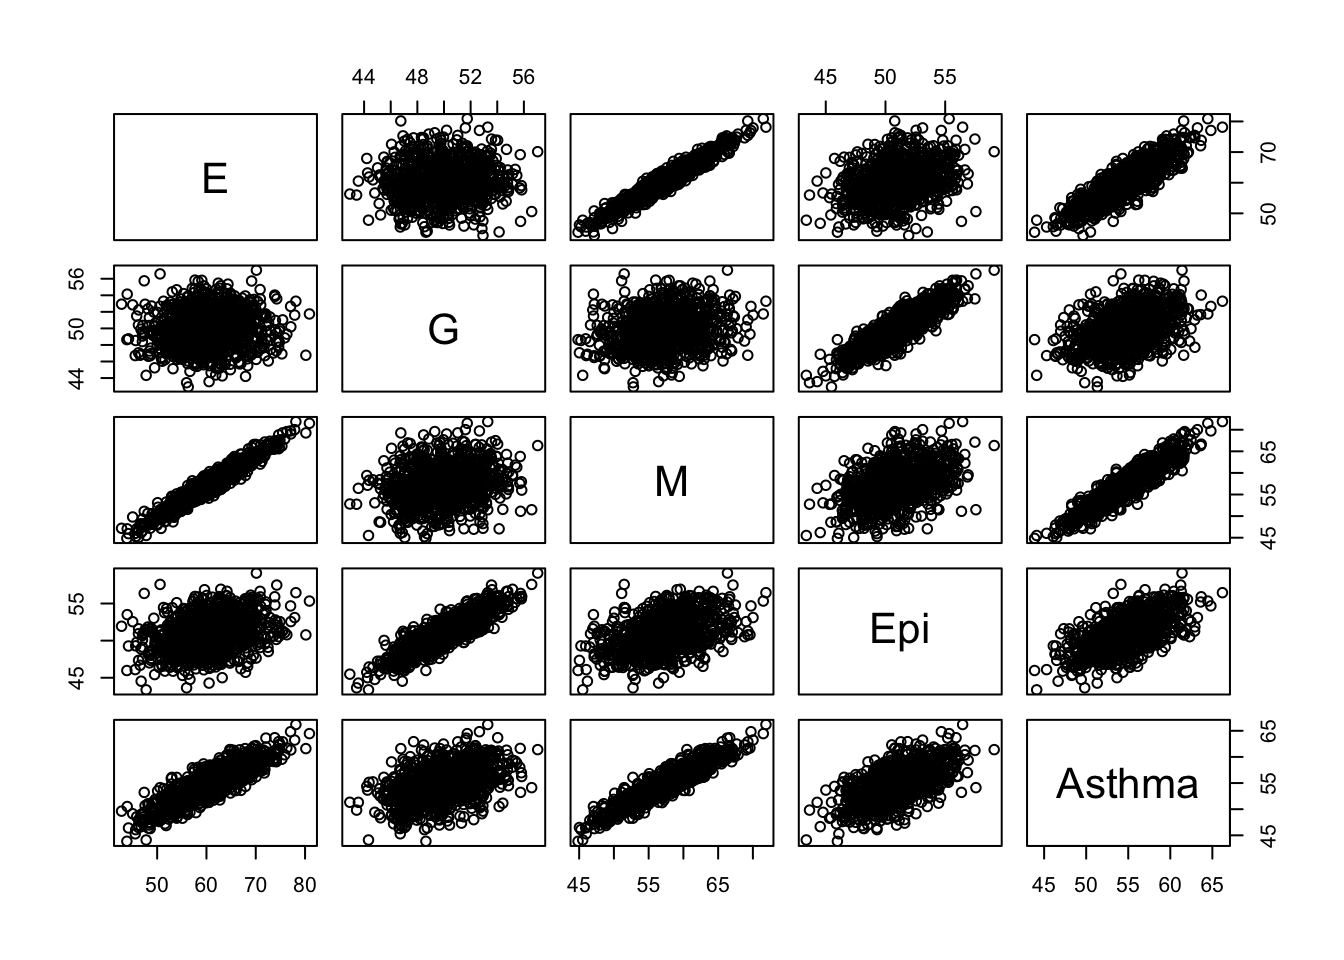
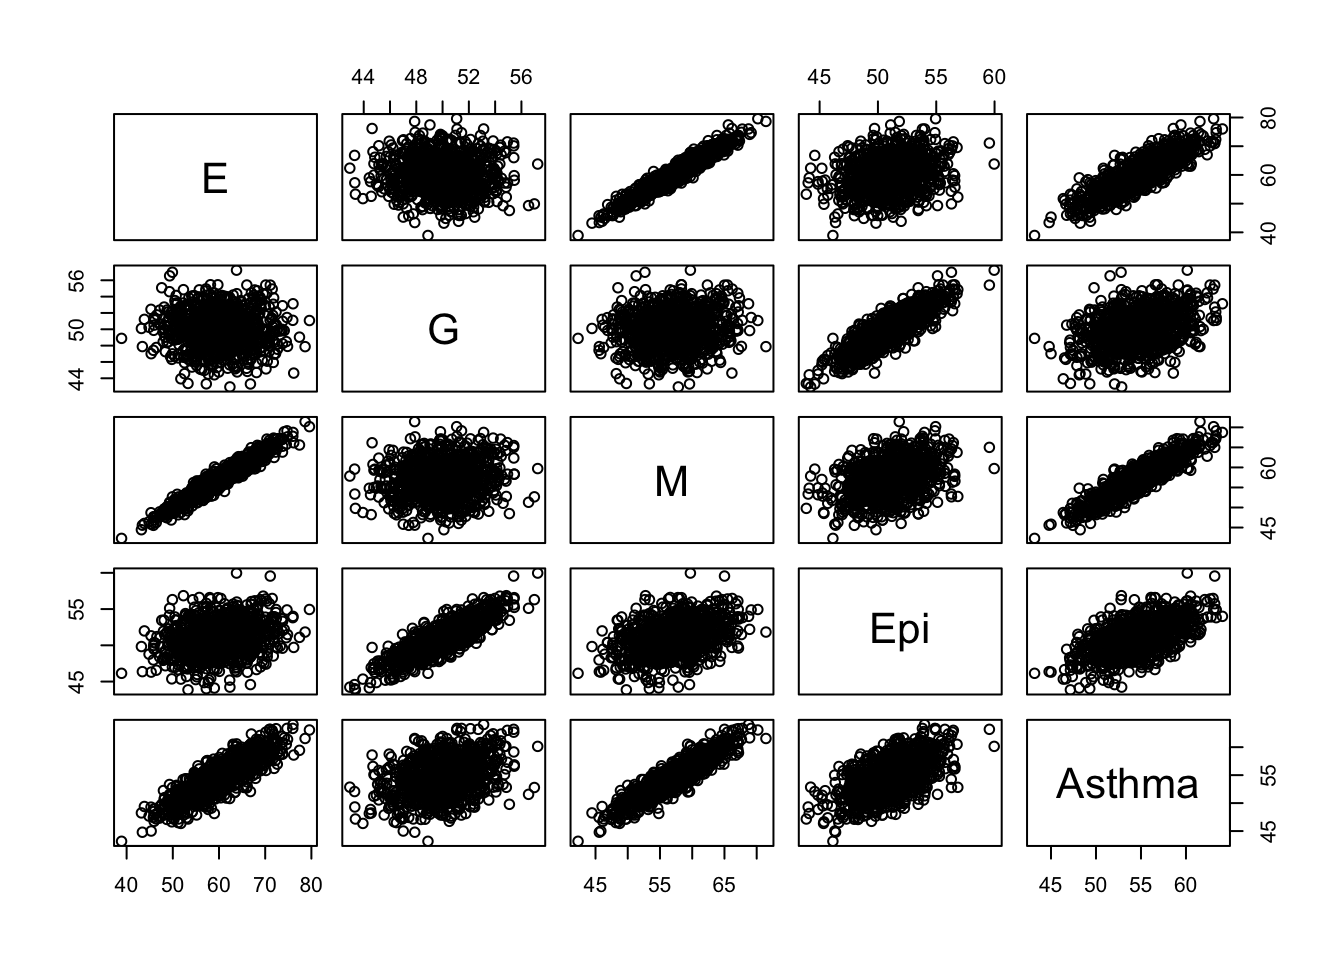
update for vercel

diff --git a/content/cn/2021-03-15-pc-algorithm/index.html b/content/cn/2021-03-15-pc-algorithm/index.html
@@ -25,12 +25,12 @@ Epi &lt;- E*0.1+G*0.9+rnorm(1000)
 Asthma &lt;- 0.6*M+0.4*Epi+rnorm(1000)
 data &lt;- cbind.data.frame(E,G,M,Epi,Asthma)
 cor(data)</code></pre>
-<pre><code>##             E      G      M    Epi Asthma
-## E      1.0000 0.0644 0.9638 0.3109 0.8584
-## G      0.0644 1.0000 0.2136 0.8788 0.4186
-## M      0.9638 0.2136 1.0000 0.4292 0.9196
-## Epi    0.3109 0.8788 0.4292 1.0000 0.6229
-## Asthma 0.8584 0.4186 0.9196 0.6229 1.0000</code></pre>
+<pre><code>##               E        G      M    Epi Asthma
+## E       1.00000 -0.02042 0.9647 0.2565 0.8551
+## G      -0.02042  1.00000 0.1314 0.8550 0.3549
+## M       0.96474  0.13144 1.0000 0.3733 0.9159
+## Epi     0.25647  0.85500 0.3733 1.0000 0.5888
+## Asthma  0.85509  0.35488 0.9159 0.5888 1.0000</code></pre>
 <pre class="r"><code>pairs(data)</code></pre>
 <p><img src="{{< blogdown/postref >}}index_files/figure-html/unnamed-chunk-1-1.png" width="672" /></p>
 <pre class="r"><code>cor.test(Asthma,E)</code></pre>
@@ -38,130 +38,130 @@ cor(data)</code></pre>
 ##  Pearson&#39;s product-moment correlation
 ## 
 ## data:  Asthma and E
-## t = 53, df = 998, p-value &lt;2e-16
+## t = 52, df = 998, p-value &lt;2e-16
 ## alternative hypothesis: true correlation is not equal to 0
 ## 95 percent confidence interval:
-##  0.8411 0.8739
+##  0.8375 0.8709
 ## sample estimates:
 ##    cor 
-## 0.8584</code></pre>
+## 0.8551</code></pre>
 <pre class="r"><code>cor.test(Asthma,G)</code></pre>
 <pre><code>## 
 ##  Pearson&#39;s product-moment correlation
 ## 
 ## data:  Asthma and G
-## t = 15, df = 998, p-value &lt;2e-16
+## t = 12, df = 998, p-value &lt;2e-16
 ## alternative hypothesis: true correlation is not equal to 0
 ## 95 percent confidence interval:
-##  0.3661 0.4684
+##  0.2995 0.4079
 ## sample estimates:
 ##    cor 
-## 0.4186</code></pre>
-<p>这里E代表暴露组、G代表基因组、M代表代谢组、Epi代表表观组、Asthma代表疾病，仿真中设定疾病六成可以被代谢组解释而四成可以用表观组解释，然而代谢组里七成是环境影响而三成是基因影响，表观组则是一成环境影响而九成基因影响。这里我们可以看到如果进行简单回归，基本就是一团乱码，</p>
+## 0.3549</code></pre>
+<p>这里E代表暴露组、G代表基因组、M代表代谢组、Epi代表表观组、Asthma代表疾病，仿真中设定疾病六成可以被代谢组解释而四成可以用表观组解释，然而代谢组里七成是环境影响而三成是基因影响，表观组则是一成环境影响而九成基因影响。这里我们可以看到如果进行简单回归，基本就是一团乱码。</p>
 <p>下面我们用PC算法拟合一下试试：</p>
 <pre class="r"><code>library(pcalg)
 suffStat &lt;- list(C=cor(data), n = nrow(data))
 pc.fit &lt;- pc(suffStat, gaussCItest, p = ncol(data), alpha = 0.01, verbose = TRUE)</code></pre>
 <pre><code>## Order=0; remaining edges:20
-## x= 1  y= 2  S=  : pval = 0.04174 
+## x= 1  y= 2  S=  : pval = 0.519 
 ## x= 1  y= 3  S=  : pval = 0 
-## x= 1  y= 4  S=  : pval = 3.213e-24 
+## x= 1  y= 4  S=  : pval = 1.2e-16 
 ## x= 1  y= 5  S=  : pval = 0 
-## x= 2  y= 3  S=  : pval = 7.352e-12 
+## x= 2  y= 3  S=  : pval = 2.987e-05 
 ## x= 2  y= 4  S=  : pval = 0 
-## x= 2  y= 5  S=  : pval = 4.892e-45 
+## x= 2  y= 5  S=  : pval = 1.067e-31 
 ## x= 3  y= 1  S=  : pval = 0 
-## x= 3  y= 2  S=  : pval = 7.352e-12 
-## x= 3  y= 4  S=  : pval = 1.404e-47 
+## x= 3  y= 2  S=  : pval = 2.987e-05 
+## x= 3  y= 4  S=  : pval = 3.173e-35 
 ## x= 3  y= 5  S=  : pval = 0 
-## x= 4  y= 1  S=  : pval = 3.213e-24 
+## x= 4  y= 1  S=  : pval = 1.2e-16 
 ## x= 4  y= 2  S=  : pval = 0 
-## x= 4  y= 3  S=  : pval = 1.404e-47 
-## x= 4  y= 5  S=  : pval = 1.824e-117 
+## x= 4  y= 3  S=  : pval = 3.173e-35 
+## x= 4  y= 5  S=  : pval = 4.855e-101 
 ## x= 5  y= 1  S=  : pval = 0 
-## x= 5  y= 2  S=  : pval = 4.892e-45 
+## x= 5  y= 2  S=  : pval = 1.067e-31 
 ## x= 5  y= 3  S=  : pval = 0 
-## x= 5  y= 4  S=  : pval = 1.824e-117 
+## x= 5  y= 4  S=  : pval = 4.855e-101 
 ## Order=1; remaining edges:18
 ## x= 1  y= 3  S= 4 : pval = 0 
 ## x= 1  y= 3  S= 5 : pval = 0 
-## x= 1  y= 4  S= 3 : pval = 7.576e-47 
-## x= 1  y= 4  S= 5 : pval = 9.516e-88 
-## x= 1  y= 5  S= 3 : pval = 6.218e-18 
+## x= 1  y= 4  S= 3 : pval = 2.175e-46 
+## x= 1  y= 4  S= 5 : pval = 3.191e-101 
+## x= 1  y= 5  S= 3 : pval = 2.84e-18 
 ## x= 1  y= 5  S= 4 : pval = 0 
-## x= 2  y= 3  S= 4 : pval = 1.977e-36 
-## x= 2  y= 3  S= 5 : pval = 2.662e-61 
+## x= 2  y= 3  S= 4 : pval = 1.207e-38 
+## x= 2  y= 3  S= 5 : pval = 1.84e-72 
 ## x= 2  y= 4  S= 3 : pval = 0 
 ## x= 2  y= 4  S= 5 : pval = 0 
-## x= 2  y= 5  S= 3 : pval = 1.31e-96 
-## x= 2  y= 5  S= 4 : pval = 7.11e-30 
+## x= 2  y= 5  S= 3 : pval = 4.245e-101 
+## x= 2  y= 5  S= 4 : pval = 1.425e-31 
 ## x= 3  y= 1  S= 2 : pval = 0 
 ## x= 3  y= 1  S= 4 : pval = 0 
 ## x= 3  y= 1  S= 5 : pval = 0 
-## x= 3  y= 2  S= 1 : pval = 1.523e-92 
-## x= 3  y= 2  S= 4 : pval = 1.977e-36 
-## x= 3  y= 2  S= 5 : pval = 2.662e-61 
-## x= 3  y= 4  S= 1 : pval = 7.036e-71 
-## x= 3  y= 4  S= 2 : pval = 3.176e-73 
-## x= 3  y= 4  S= 5 : pval = 1.348e-57 
-## x= 3  y= 5  S= 1 : pval = 1.26e-147 
+## x= 3  y= 2  S= 1 : pval = 1.174e-94 
+## x= 3  y= 2  S= 4 : pval = 1.207e-38 
+## x= 3  y= 2  S= 5 : pval = 1.84e-72 
+## x= 3  y= 4  S= 1 : pval = 1.184e-65 
+## x= 3  y= 4  S= 2 : pval = 1.006e-69 
+## x= 3  y= 4  S= 5 : pval = 4.762e-71 
+## x= 3  y= 5  S= 1 : pval = 5.469e-142 
 ## x= 3  y= 5  S= 2 : pval = 0 
 ## x= 3  y= 5  S= 4 : pval = 0 
-## x= 4  y= 1  S= 2 : pval = 7.178e-79 
-## x= 4  y= 1  S= 3 : pval = 7.576e-47 
-## x= 4  y= 1  S= 5 : pval = 9.516e-88 
+## x= 4  y= 1  S= 2 : pval = 8.164e-77 
+## x= 4  y= 1  S= 3 : pval = 2.175e-46 
+## x= 4  y= 1  S= 5 : pval = 3.191e-101 
 ## x= 4  y= 2  S= 1 : pval = 0 
 ## x= 4  y= 2  S= 3 : pval = 0 
 ## x= 4  y= 2  S= 5 : pval = 0 
-## x= 4  y= 3  S= 1 : pval = 7.036e-71 
-## x= 4  y= 3  S= 2 : pval = 3.176e-73 
-## x= 4  y= 3  S= 5 : pval = 1.348e-57 
-## x= 4  y= 5  S= 1 : pval = 6.097e-189 
-## x= 4  y= 5  S= 2 : pval = 8.716e-101 
-## x= 4  y= 5  S= 3 : pval = 2.404e-128 
+## x= 4  y= 3  S= 1 : pval = 1.184e-65 
+## x= 4  y= 3  S= 2 : pval = 1.006e-69 
+## x= 4  y= 3  S= 5 : pval = 4.762e-71 
+## x= 4  y= 5  S= 1 : pval = 2.8e-195 
+## x= 4  y= 5  S= 2 : pval = 7.757e-101 
+## x= 4  y= 5  S= 3 : pval = 5.666e-140 
 ## x= 5  y= 1  S= 2 : pval = 0 
-## x= 5  y= 1  S= 3 : pval = 6.218e-18 
+## x= 5  y= 1  S= 3 : pval = 2.84e-18 
 ## x= 5  y= 1  S= 4 : pval = 0 
-## x= 5  y= 2  S= 1 : pval = 3.131e-172 
-## x= 5  y= 2  S= 3 : pval = 1.31e-96 
-## x= 5  y= 2  S= 4 : pval = 7.11e-30 
-## x= 5  y= 3  S= 1 : pval = 1.26e-147 
+## x= 5  y= 2  S= 1 : pval = 4.455e-179 
+## x= 5  y= 2  S= 3 : pval = 4.245e-101 
+## x= 5  y= 2  S= 4 : pval = 1.425e-31 
+## x= 5  y= 3  S= 1 : pval = 5.469e-142 
 ## x= 5  y= 3  S= 2 : pval = 0 
 ## x= 5  y= 3  S= 4 : pval = 0 
-## x= 5  y= 4  S= 1 : pval = 6.097e-189 
-## x= 5  y= 4  S= 2 : pval = 8.716e-101 
-## x= 5  y= 4  S= 3 : pval = 2.404e-128 
+## x= 5  y= 4  S= 1 : pval = 2.8e-195 
+## x= 5  y= 4  S= 2 : pval = 7.757e-101 
+## x= 5  y= 4  S= 3 : pval = 5.666e-140 
 ## Order=2; remaining edges:18
-## x= 1  y= 3  S= 4 5 : pval = 8.039e-298 
-## x= 1  y= 4  S= 3 5 : pval = 6.879e-30 
-## x= 1  y= 5  S= 3 4 : pval = 0.7337 
-## x= 2  y= 3  S= 4 5 : pval = 7.426e-08 
-## x= 2  y= 4  S= 3 5 : pval = 0 
-## x= 2  y= 5  S= 3 4 : pval = 0.6388 
+## x= 1  y= 3  S= 4 5 : pval = 2.984e-295 
+## x= 1  y= 4  S= 3 5 : pval = 3.844e-29 
+## x= 1  y= 5  S= 3 4 : pval = 0.577 
+## x= 2  y= 3  S= 4 5 : pval = 2.05e-08 
+## x= 2  y= 4  S= 3 5 : pval = 4.093e-267 
+## x= 2  y= 5  S= 3 4 : pval = 0.4735 
 ## x= 3  y= 1  S= 2 4 : pval = 0 
-## x= 3  y= 1  S= 2 5 : pval = 5.074e-302 
-## x= 3  y= 1  S= 4 5 : pval = 8.039e-298 
-## x= 3  y= 2  S= 1 4 : pval = 2.074e-21 
-## x= 3  y= 2  S= 1 5 : pval = 3.081e-08 
-## x= 3  y= 2  S= 4 5 : pval = 7.426e-08 
-## x= 3  y= 4  S= 1 2 : pval = 0.6814 
-## x= 3  y= 5  S= 1 2 : pval = 1.233e-57 
-## x= 3  y= 5  S= 1 4 : pval = 7.63e-72 
+## x= 3  y= 1  S= 2 5 : pval = 4.25e-304 
+## x= 3  y= 1  S= 4 5 : pval = 2.984e-295 
+## x= 3  y= 2  S= 1 4 : pval = 1.062e-28 
+## x= 3  y= 2  S= 1 5 : pval = 3.746e-09 
+## x= 3  y= 2  S= 4 5 : pval = 2.05e-08 
+## x= 3  y= 4  S= 1 2 : pval = 0.1595 
+## x= 3  y= 5  S= 1 2 : pval = 1.519e-51 
+## x= 3  y= 5  S= 1 4 : pval = 1.218e-71 
 ## x= 3  y= 5  S= 2 4 : pval = 0 
-## x= 4  y= 1  S= 2 3 : pval = 1.209e-06 
-## x= 4  y= 1  S= 2 5 : pval = 0.5697 
+## x= 4  y= 1  S= 2 3 : pval = 1.981e-08 
+## x= 4  y= 1  S= 2 5 : pval = 0.1367 
 ## x= 4  y= 2  S= 1 3 : pval = 0 
-## x= 4  y= 2  S= 1 5 : pval = 3.83e-269 
-## x= 4  y= 2  S= 3 5 : pval = 0 
-## x= 4  y= 5  S= 1 2 : pval = 1.807e-21 
-## x= 4  y= 5  S= 1 3 : pval = 1.731e-109 
-## x= 4  y= 5  S= 2 3 : pval = 1.106e-29 
-## x= 5  y= 3  S= 1 2 : pval = 1.233e-57 
-## x= 5  y= 3  S= 1 4 : pval = 7.63e-72 
+## x= 4  y= 2  S= 1 5 : pval = 3.064e-224 
+## x= 4  y= 2  S= 3 5 : pval = 4.093e-267 
+## x= 4  y= 5  S= 1 2 : pval = 7.358e-24 
+## x= 4  y= 5  S= 1 3 : pval = 1.651e-120 
+## x= 4  y= 5  S= 2 3 : pval = 7.409e-36 
+## x= 5  y= 3  S= 1 2 : pval = 1.519e-51 
+## x= 5  y= 3  S= 1 4 : pval = 1.218e-71 
 ## x= 5  y= 3  S= 2 4 : pval = 0 
-## x= 5  y= 4  S= 1 2 : pval = 1.807e-21 
-## x= 5  y= 4  S= 1 3 : pval = 1.731e-109 
-## x= 5  y= 4  S= 2 3 : pval = 1.106e-29 
+## x= 5  y= 4  S= 1 2 : pval = 7.358e-24 
+## x= 5  y= 4  S= 1 3 : pval = 1.651e-120 
+## x= 5  y= 4  S= 2 3 : pval = 7.409e-36 
 ## Order=3; remaining edges:10</code></pre>
 <pre class="r"><code>plot(pc.fit,main=&#39;Demo&#39;,labels=c(&quot;E&quot;,&quot;G&quot;,&quot;M&quot;,&quot;Epi&quot;,&quot;Asthma&quot;))</code></pre>
 <pre><code>## Loading required namespace: Rgraphviz</code></pre>
